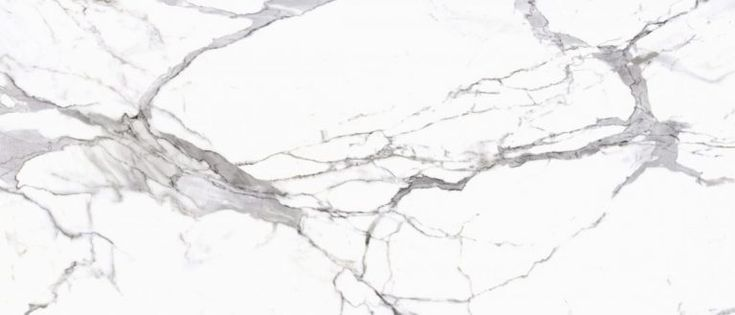
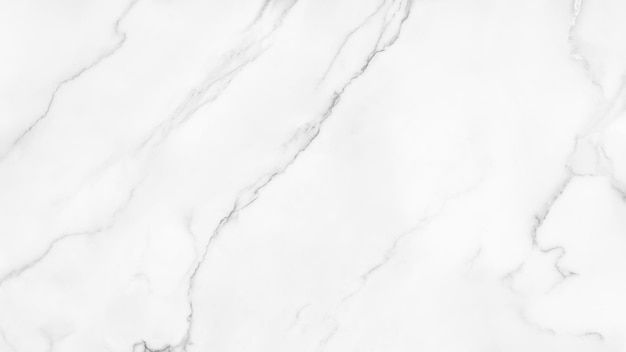
fix: update feedbacks section background image and adjust opacity for improved visual consistency

diff --git a/src/sections/feedbacks.section.tsx b/src/sections/feedbacks.section.tsx
@@ -91,12 +91,7 @@ export const FeedbacksSection = () => {
   return (
     <section id="feedbacks" className="h-screen bg-white w-full relative overflow-hidden">
       <div
-        className="absolute inset-0 bg-cover bg-center bg-no-repeat opacity-31050(11).png
-1050(10).png
-1050(9).png
-1050(8).png
-1050(7).png
-1050(6).png0"
+        className="absolute inset-0 bg-cover bg-center bg-no-repeat opacity-50"
         style={{
           backgroundImage: "url('/feedbacks.jpg')",
         }}
